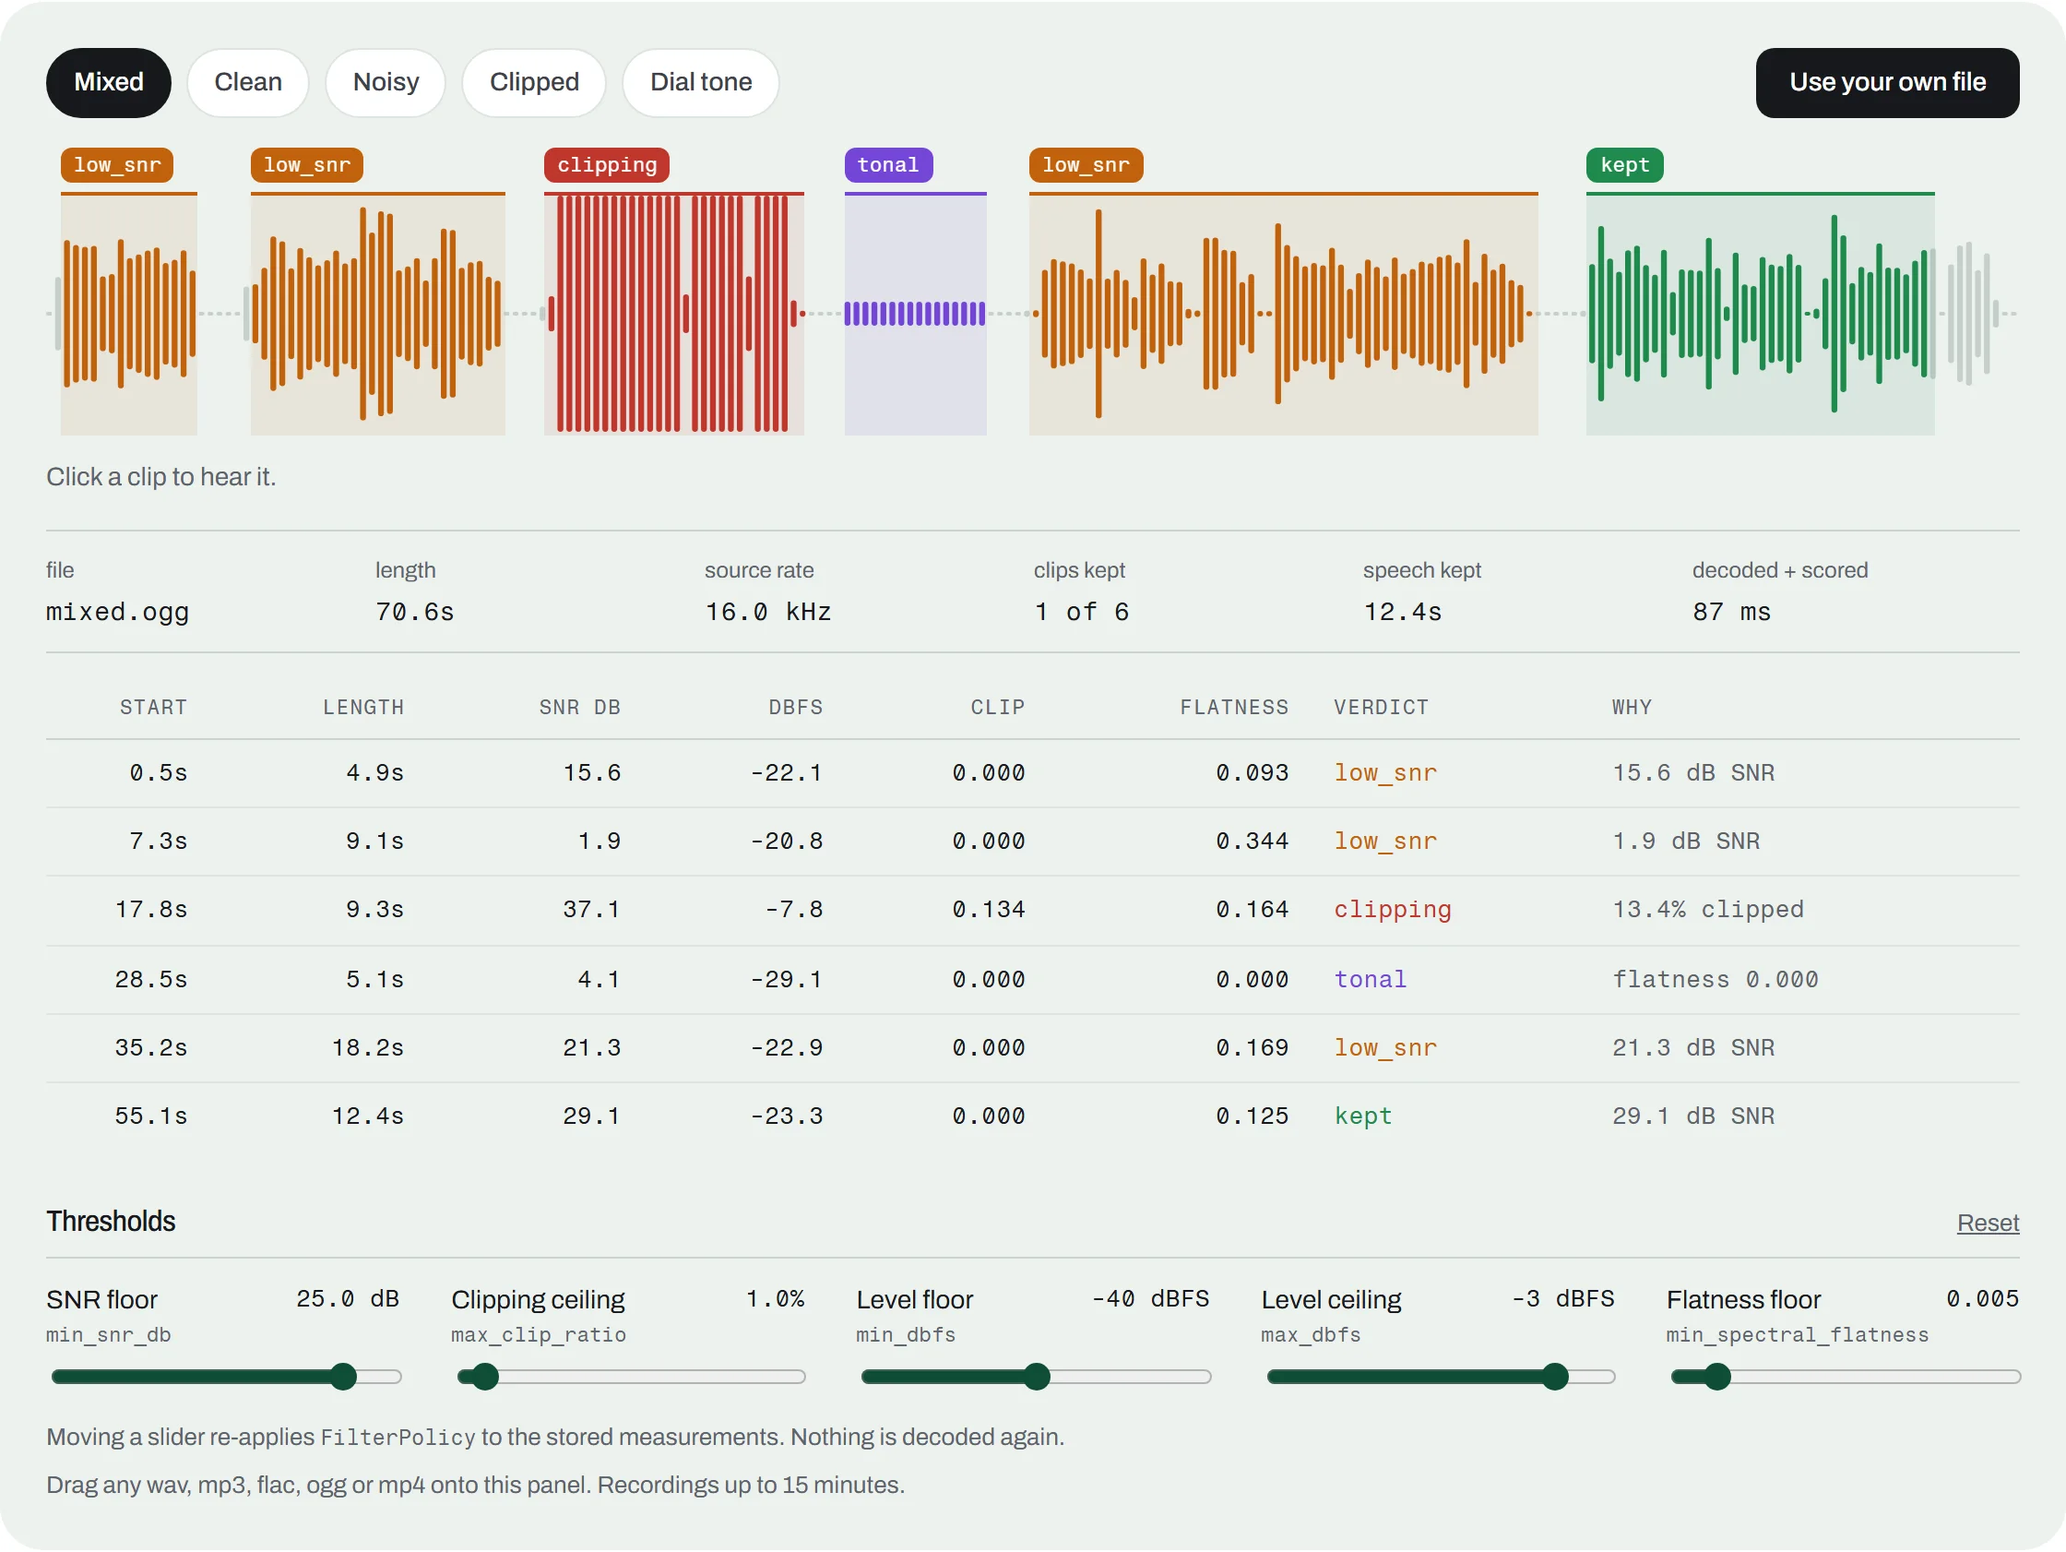
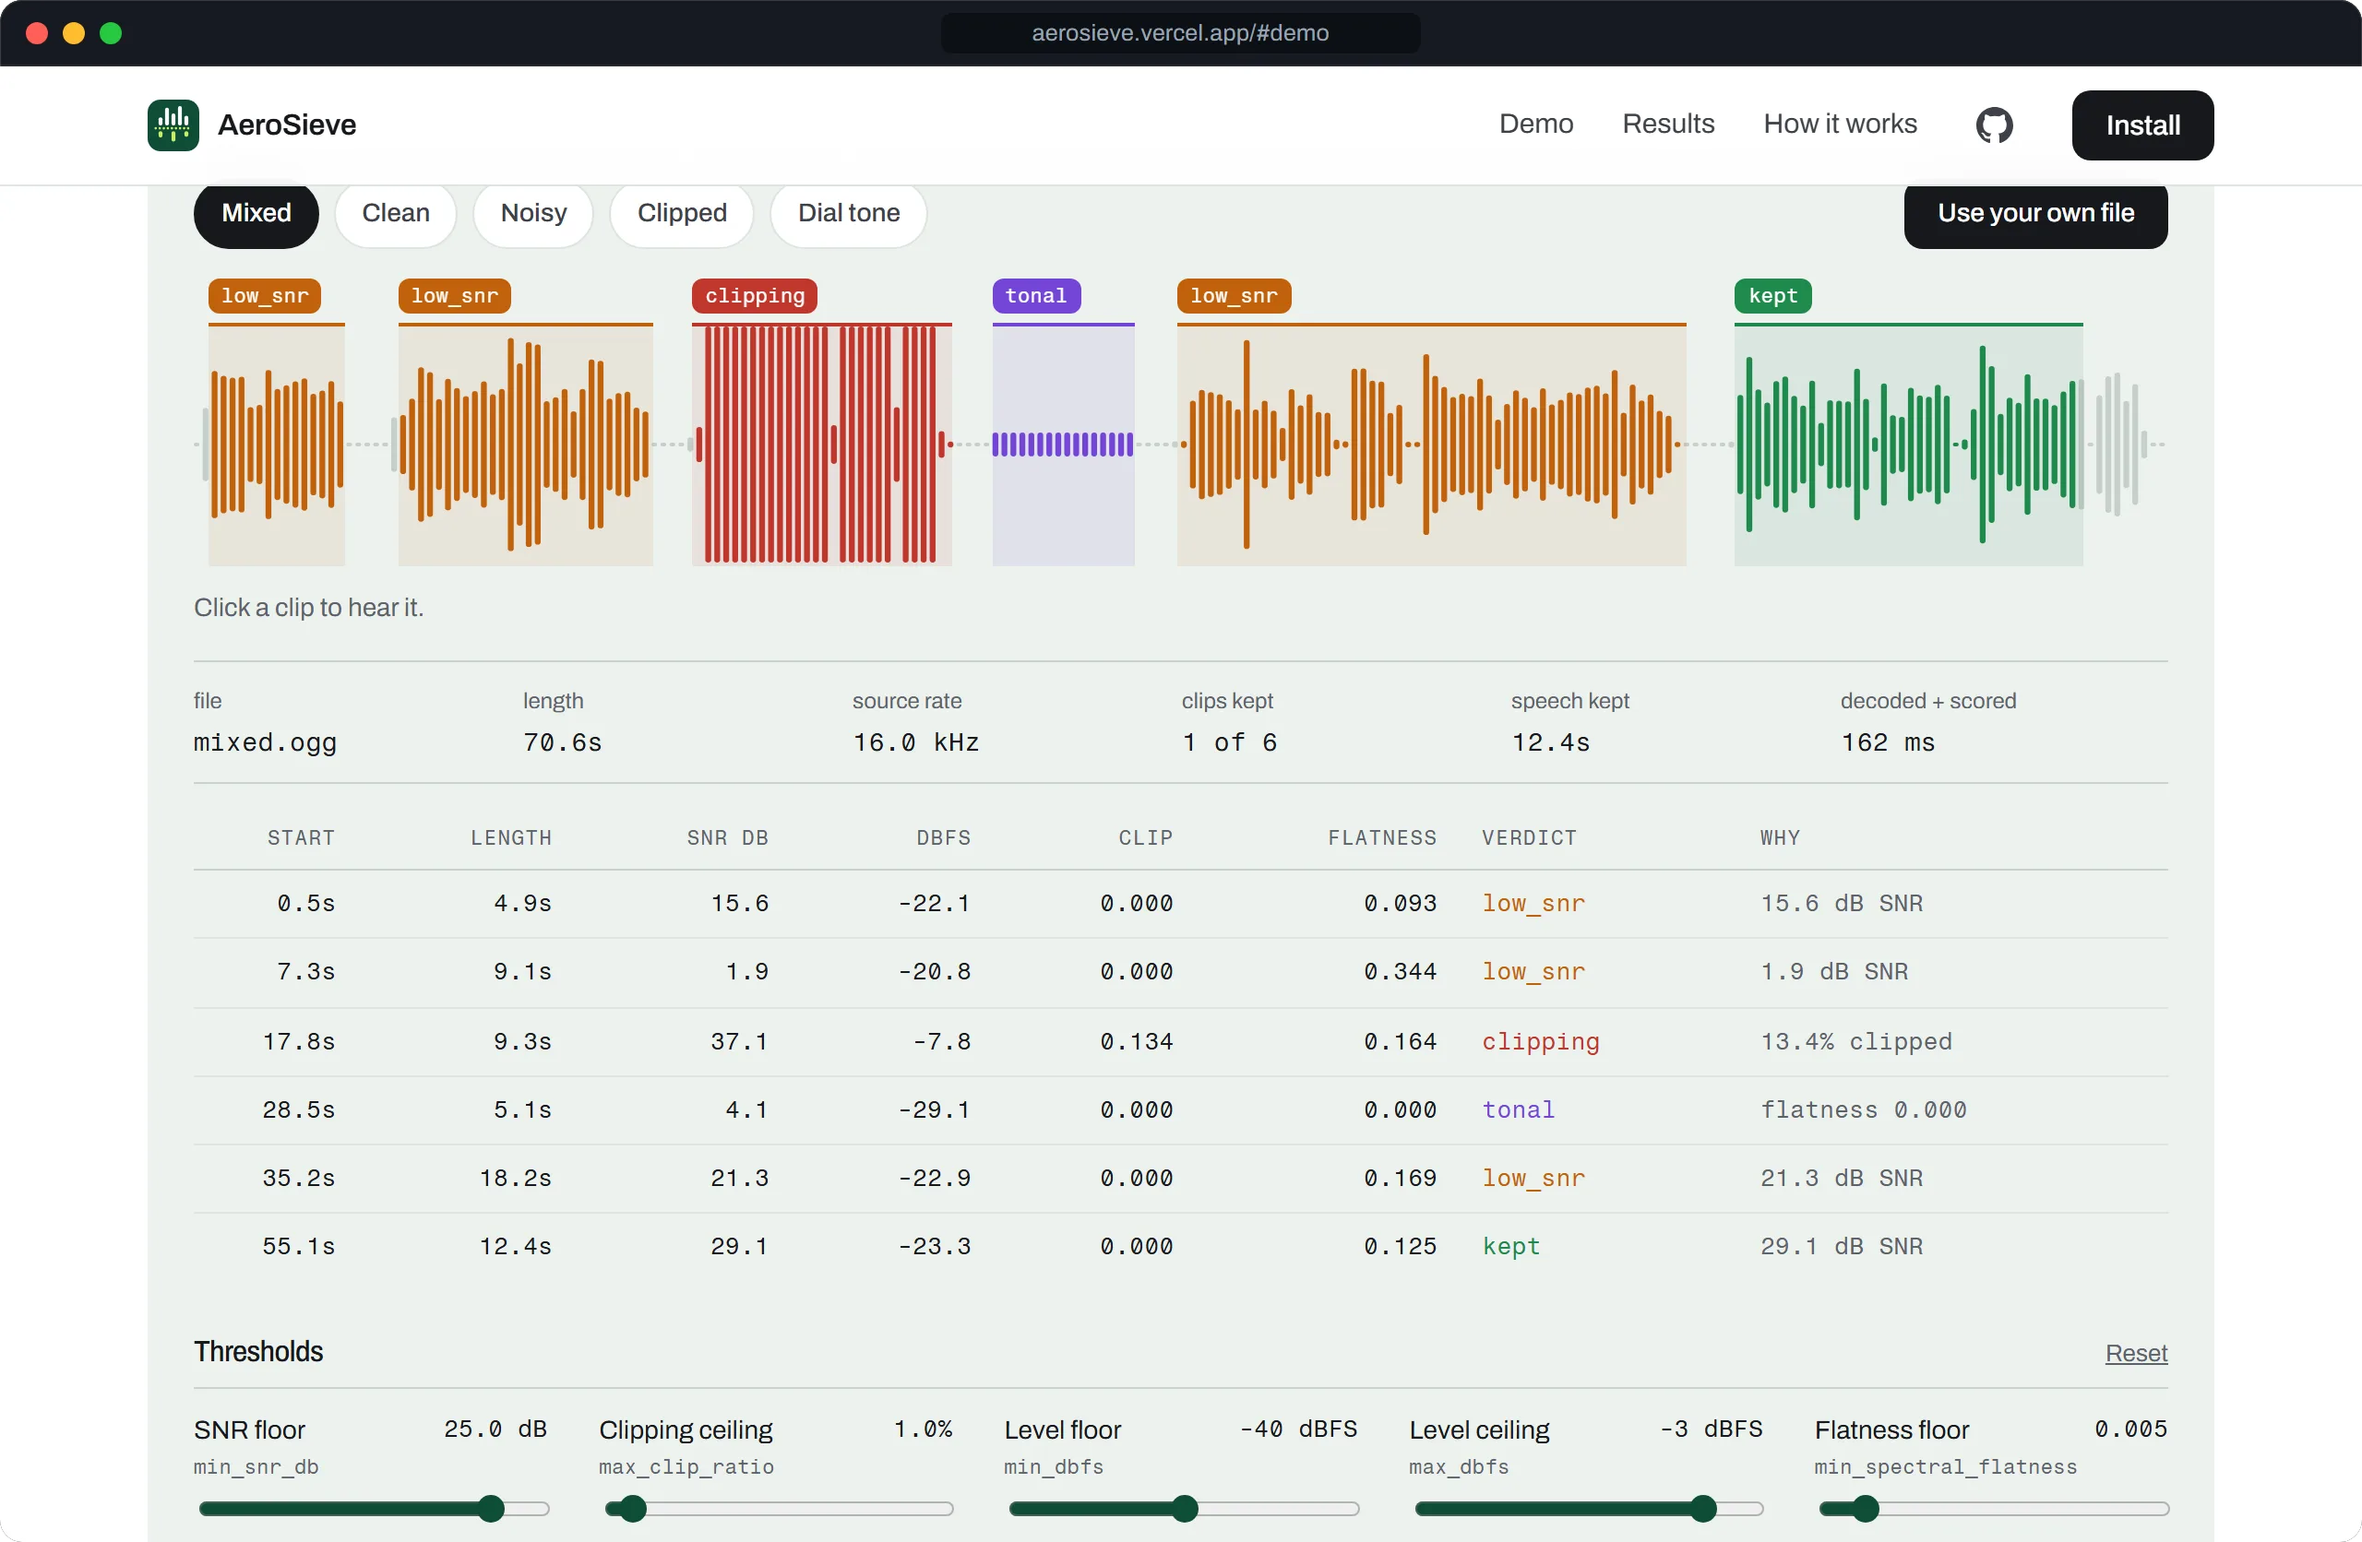
Use Product Hunt style cards and new product screenshots for Gostman, AeroSieve and Un-Nexted

diff --git a/lib/projects-data.ts b/lib/projects-data.ts
@@ -22,7 +22,7 @@ export const DEPLOYED_PROJECTS: Project[] = [
   {
     slug: "gostman",
     title: "Gostman",
-    src: "/images/gostman-app.webp",
+    src: "/images/projects/gostman/00-producthunt.webp",
     category: "Developer tool",
     description:
       "Open source API client for REST, GraphQL, gRPC and WebSocket: a native desktop app (Go + Wails), a web app, and a single-binary CLI that runs collections in CI and serves them to coding agents over MCP. No account, no telemetry, no paid tier.",
@@ -38,7 +38,7 @@ export const DEPLOYED_PROJECTS: Project[] = [
   {
     slug: "aerosieve",
     title: "AeroSieve",
-    src: "/images/aerosieve-landing.webp",
+    src: "/images/projects/aerosieve/00-producthunt.webp",
     category: "Voice AI data pipeline",
     description:
       "Turns raw recordings into speech-model training data, with a reason for every clip it drops. Caught 24,385 of 24,409 injected defects across six languages, curates audio 940x faster than real time on a laptop CPU, and judges 1,000 live streams at 14.8 ms p95 over WebSocket. Runs in the browser via WebAssembly, and ships as a CLI, Rust crate and Python bindings.",
@@ -85,7 +85,7 @@ export const DEPLOYED_PROJECTS: Project[] = [
   {
     slug: "un-nexted",
     title: "Un-Nexted",
-    src: "/images/un-nexted-1600.webp",
+    src: "/images/projects/un-nexted/00-producthunt.webp",
     category: "Framework internals",
     description:
       "Next.js core features (SSR, hydration, and file-system routing) reimplemented from scratch to show how the meta-framework actually works.",
